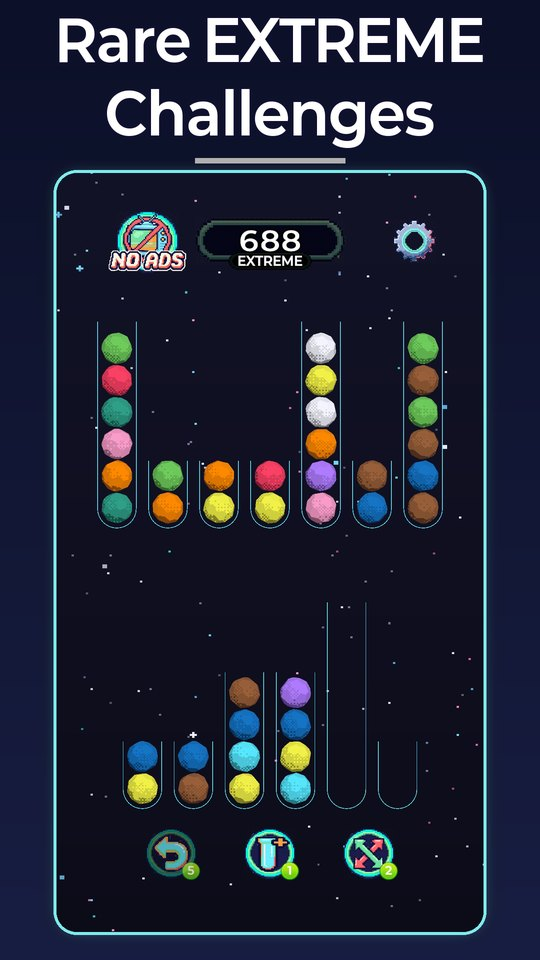
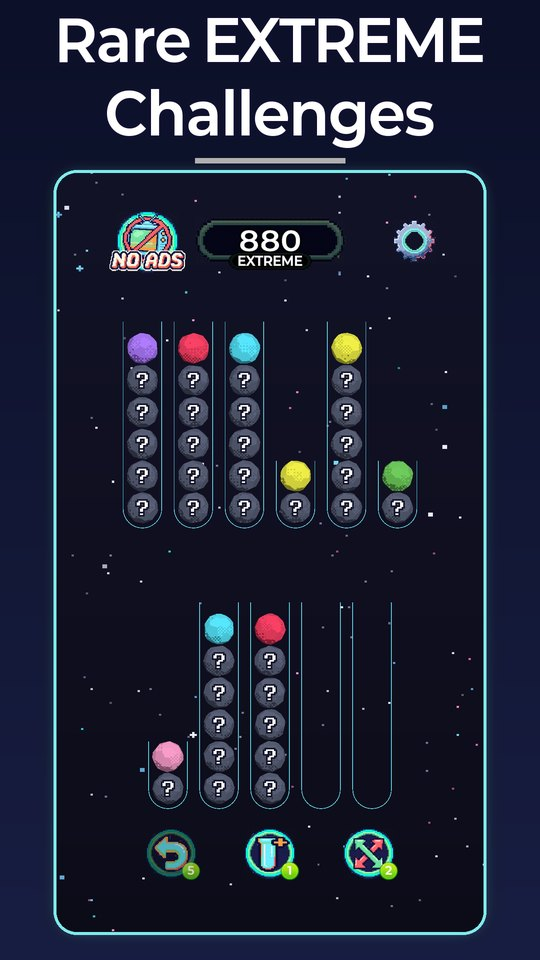
Sortini 1.4 update (2026-11-24)
- Sortini pages (KO/EN): 1.4 meta and og text, softwareVersion 1.4,
  v1.4 release line, 1.4 changelog entry
- Coming next: only the Europe launch line remains
- Features: HARD about every 10 levels
- Screenshot 4: 1.4 EXTREME level 880 (store set, 540x960), alt updated
- Home / Games cards: v1.4; sitemap lastmod 2026-11-24

diff --git a/games/sortini/index.html b/games/sortini/index.html
@@ -4,7 +4,7 @@
   <meta charset="UTF-8" />
   <meta name="viewport" content="width=device-width, initial-scale=1.0" />
   <title>Sortini: 볼 소트 퍼즐 | DoubleUp Studio</title>
-  <meta name="description" content="튜브 크기가 제각각인 볼 소트 퍼즐, Sortini. 1.3 업데이트 — 새로 만든 5~50레벨, 가려진 공, 자동 일시정지. 1,000개 레벨, Google Play에서 무료로 즐기세요." />
+  <meta name="description" content="튜브 크기가 제각각인 볼 소트 퍼즐, Sortini. 1.4 업데이트 — 새로 만든 51~1000레벨, 랭킹 시즌 2. 1,000개 레벨, Google Play에서 무료로 즐기세요." />
   <link rel="canonical" href="https://doubleupstudio.com/games/sortini/" />
   <link rel="alternate" hreflang="ko" href="https://doubleupstudio.com/games/sortini/" />
   <link rel="alternate" hreflang="en" href="https://doubleupstudio.com/games/sortini/en/" />
@@ -13,8 +13,8 @@
   <meta property="og:type" content="website" />
   <meta property="og:site_name" content="DoubleUp Studio" />
   <meta property="og:url" content="https://doubleupstudio.com/games/sortini/" />
-  <meta property="og:title" content="Sortini: 볼 소트 퍼즐 — 1.3 업데이트" />
-  <meta property="og:description" content="튜브 크기가 제각각인 볼 소트 퍼즐. 새 5~50레벨 · 가려진 공 · 자동 일시정지. 1,000개 레벨, 무료." />
+  <meta property="og:title" content="Sortini: 볼 소트 퍼즐 — 1.4 업데이트" />
+  <meta property="og:description" content="튜브 크기가 제각각인 볼 소트 퍼즐. 새 51~1000레벨 · 가려진 공 · 랭킹 시즌 2. 1,000개 레벨, 무료." />
   <meta property="og:image" content="https://doubleupstudio.com/assets/img/games/sortini-og.jpg?v=20261113" />
   <meta property="og:image:width" content="1200" />
   <meta property="og:image:height" content="630" />
@@ -43,7 +43,7 @@
   "applicationCategory": "GameApplication",
   "genre": "Puzzle",
   "operatingSystem": "Android",
-  "softwareVersion": "1.3.1",
+  "softwareVersion": "1.4",
   "datePublished": "2026-10-19",
   "image": "https://doubleupstudio.com/assets/img/games/sortini-og.jpg",
   "url": "https://doubleupstudio.com/games/sortini/",
@@ -118,7 +118,7 @@
             </a>
             <span class="store-soon" aria-label="App Store 출시 준비 중">App Store · 준비 중</span>
           </div>
-          <p class="release-date">v1.3.1 · UPDATED 2026.11.16 · RELEASED 2026.10.19</p>
+          <p class="release-date">v1.4 · UPDATED 2026.11.24 · RELEASED 2026.10.19</p>
         </div>
 
         <div class="game-hero__video">
@@ -161,7 +161,7 @@
         <ul class="feature-list">
           <li><strong>크기가 다른 튜브</strong>2 · 4 · 6 · 8칸 튜브가 한 판에 섞여 나와요.</li>
           <li><strong>1,000개 레벨</strong>쉬운 워밍업부터 머리를 쥐어짜는 판까지 차근차근 어려워져요. 모든 레벨은 아이템 없이도 풀 수 있게 만들었어요.</li>
-          <li><strong>HARD &amp; EXTREME</strong>챕터 끝마다 HARD 레벨, 가끔은 정말 어려운 EXTREME 레벨이 기다리고 있어요.</li>
+          <li><strong>HARD &amp; EXTREME</strong>10레벨 안팎마다 HARD 레벨, 가끔은 정말 어려운 EXTREME 레벨이 기다리고 있어요.</li>
           <li><strong>크라운 챌린지</strong>빠르게 풀수록 더 좋은 크라운을 받아요.</li>
           <li><strong>리더보드</strong>Google Play 게임즈 리더보드에서 다른 플레이어와 기록을 겨뤄 보세요.</li>
           <li><strong>도움 아이템 3종</strong>되돌리기(방금 한 수 취소) · 튜브 추가(빈 튜브 하나 더) · 섞기(공을 다시 섞기).</li>
@@ -182,7 +182,7 @@
           <img src="/assets/img/games/sortini/ko/shot-1.jpg" alt="크기가 다른 튜브 — 2칸부터 큰 튜브까지 섞인 레벨 100" width="540" height="960" loading="lazy" />
           <img src="/assets/img/games/sortini/ko/shot-2.jpg" alt="착착 정리하고 시원하게 클리어 — 공을 옮기는 레벨 549" width="540" height="960" loading="lazy" />
           <img src="/assets/img/games/sortini/ko/shot-3.jpg" alt="레벨 1,000개 — 마지막 레벨 1000(HARD)" width="540" height="960" loading="lazy" />
-          <img src="/assets/img/games/sortini/ko/shot-4.jpg" alt="가끔 나오는 익스트림 도전 — EXTREME 레벨 688" width="540" height="960" loading="lazy" />
+          <img src="/assets/img/games/sortini/ko/shot-4.jpg?v=20261124" alt="가끔 나오는 익스트림 도전 — EXTREME 레벨 880" width="540" height="960" loading="lazy" />
           <img src="/assets/img/games/sortini/ko/shot-5.jpg" alt="막히면 되돌리기 · 튜브 추가 · 섞기 — 섞기 아이템을 쓰는 레벨 115" width="540" height="960" loading="lazy" />
           <img src="/assets/img/games/sortini/ko/shot-6.jpg" alt="빨리 깰수록 골드 크라운 — PERFECT 클리어 화면" width="540" height="960" loading="lazy" />
           <img src="/assets/img/games/sortini/ko/shot-7.jpg" alt="색약을 위한 색 기호 — 공마다 기호가 보이는 레벨 812" width="540" height="960" loading="lazy" />
@@ -203,13 +203,22 @@
               <span class="changelog__ver">다음 업데이트 예정</span>
               <span class="changelog__date">COMING SOON</span>
             </div>
-            <p class="muted" style="margin:0 0 .5rem">1.3에서 새로 만든 초반 레벨의 반응을 보면서 다음 내용을 준비하고 있어요. (내용과 시기는 바뀔 수 있어요.)</p>
+            <p class="muted" style="margin:0 0 .5rem">새 51~1000레벨의 반응을 보면서 다음 내용을 준비하고 있어요. (내용과 시기는 바뀔 수 있어요.)</p>
             <ul>
-              <li><b>51~1000레벨 새 단장</b> — 판마다 다르게 느껴지도록 모든 레벨을 새로 만들어요. 가려진 공이 더 다양해지고, 시작 모양도 여러 가지가 나와요.</li>
-              <li><b>HARD &amp; EXTREME 다듬기</b> — 어려운 판이 일반 판과 확실히 다르게 느껴지도록 다듬어요.</li>
-              <li><b>랭킹 새 시즌</b> — 레벨이 바뀌는 만큼 랭킹을 새로 시작해요. 지금까지의 기록은 <b>「시즌 1」</b>로 보관되고, 랭킹 화면에서 시즌 1 최고 기록도 볼 수 있어요.</li>
-              <li><b>모든 레벨 클리어 그다음</b> — 1000레벨을 다 깬 뒤에는 골드를 못 딴 레벨에 바로 도전할 수 있게 이어 드려요.</li>
               <li><b>유럽 지역 출시</b> — 유럽(EU) · 영국 · 스위스에서도 만날 수 있도록 준비하고 있어요.</li>
+            </ul>
+          </li>
+          <li>
+            <div class="changelog__head">
+              <span class="changelog__ver">1.4 업데이트</span>
+              <span class="changelog__date">2026.11.24</span>
+            </div>
+            <ul>
+              <li><b>51~1000레벨 새 퍼즐</b> — 51~1000레벨을 전부 새 퍼즐로 다시 만들었어요. 가려진 공이 51레벨 이후에도 나와요.</li>
+              <li><b>랭킹 시즌 2</b> — 랭킹이 새로 시작해요. 50레벨을 넘었던 분은 새 퍼즐의 51레벨부터 이어 가요. 1~50레벨 기록은 그대로이고, 시즌 1 기록은 랭킹 탭에 보관돼요.</li>
+              <li><b>올 클리어 화면</b> — 「골드 도전」을 누르면 아직 골드를 못 딴 레벨로 바로 가요. 「다시 하기」는 「처음부터」로 이름이 바뀌었어요.</li>
+              <li><b>크라운 목표 시간</b> — 가려진 공이 있는 레벨은 크라운 목표 시간이 늘었어요.</li>
+              <li><b>수정</b> — 아주 빠르게 연달아 누르면 터치가 먹히지 않던 문제를 고쳤어요.</li>
             </ul>
           </li>
           <li>

diff --git a/games/sortini/en/index.html b/games/sortini/en/index.html
@@ -4,7 +4,7 @@
   <meta charset="UTF-8" />
   <meta name="viewport" content="width=device-width, initial-scale=1.0" />
   <title>Sortini: Ball Sort Puzzle | DoubleUp Studio</title>
-  <meta name="description" content="Sortini, the ball sort puzzle where the tubes come in different sizes. 1.3 update: redesigned levels 5–50, Hidden Balls and auto pause. 1,000 levels, free on Google Play." />
+  <meta name="description" content="Sortini, the ball sort puzzle where the tubes come in different sizes. 1.4 update: all-new levels 51–1000 and ranking Season 2. 1,000 levels, free on Google Play." />
   <link rel="canonical" href="https://doubleupstudio.com/games/sortini/en/" />
   <link rel="alternate" hreflang="ko" href="https://doubleupstudio.com/games/sortini/" />
   <link rel="alternate" hreflang="en" href="https://doubleupstudio.com/games/sortini/en/" />
@@ -13,8 +13,8 @@
   <meta property="og:type" content="website" />
   <meta property="og:site_name" content="DoubleUp Studio" />
   <meta property="og:url" content="https://doubleupstudio.com/games/sortini/en/" />
-  <meta property="og:title" content="Sortini: Ball Sort Puzzle — 1.3 update" />
-  <meta property="og:description" content="The ball sort puzzle where the tubes come in different sizes. Redesigned levels 5–50 · Hidden Balls · auto pause. 1,000 levels, free." />
+  <meta property="og:title" content="Sortini: Ball Sort Puzzle — 1.4 update" />
+  <meta property="og:description" content="The ball sort puzzle where the tubes come in different sizes. All-new levels 51–1000 · Hidden Balls · ranking Season 2. 1,000 levels, free." />
   <meta property="og:image" content="https://doubleupstudio.com/assets/img/games/sortini-og.jpg?v=20261113" />
   <meta property="og:image:width" content="1200" />
   <meta property="og:image:height" content="630" />
@@ -43,7 +43,7 @@
   "applicationCategory": "GameApplication",
   "genre": "Puzzle",
   "operatingSystem": "Android",
-  "softwareVersion": "1.3.1",
+  "softwareVersion": "1.4",
   "datePublished": "2026-10-19",
   "image": "https://doubleupstudio.com/assets/img/games/sortini-og.jpg",
   "url": "https://doubleupstudio.com/games/sortini/en/",
@@ -109,7 +109,7 @@
             </a>
             <span class="store-soon" aria-label="App Store version coming soon">App Store · Coming soon</span>
           </div>
-          <p class="release-date">v1.3.1 · UPDATED 2026.11.16 · RELEASED 2026.10.19</p>
+          <p class="release-date">v1.4 · UPDATED 2026.11.24 · RELEASED 2026.10.19</p>
         </div>
 
         <div class="game-hero__video">
@@ -153,7 +153,7 @@
         <ul class="feature-list">
           <li><strong>Mixed-size tubes</strong>2, 4, 6 and 8-ball tubes in the same puzzle.</li>
           <li><strong>1,000 levels</strong>From relaxing warm-ups to real brain-teasers. Every level can be solved without items.</li>
-          <li><strong>HARD &amp; EXTREME</strong>A HARD level at the end of each chapter, and rare EXTREME challenges.</li>
+          <li><strong>HARD &amp; EXTREME</strong>A HARD level about every 10 levels, and rare EXTREME challenges.</li>
           <li><strong>Crown challenge</strong>Solve faster to earn a better crown.</li>
           <li><strong>Leaderboard</strong>Compete with other players on the Google Play Games leaderboard.</li>
           <li><strong>3 helper items</strong>Undo (take back a move) · Extra Tube (one more empty tube) · Shuffle (mix the balls again).</li>
@@ -174,7 +174,7 @@
           <img src="/assets/img/games/sortini/en/shot-1.jpg" alt="Tubes of every size — level 100 with mixed tube sizes" width="540" height="960" loading="lazy" />
           <img src="/assets/img/games/sortini/en/shot-2.jpg" alt="Sort. Clear. Relax. — moving balls in level 549" width="540" height="960" loading="lazy" />
           <img src="/assets/img/games/sortini/en/shot-3.jpg" alt="1,000 levels — the final level 1000 (HARD)" width="540" height="960" loading="lazy" />
-          <img src="/assets/img/games/sortini/en/shot-4.jpg" alt="Rare EXTREME challenges — EXTREME level 688" width="540" height="960" loading="lazy" />
+          <img src="/assets/img/games/sortini/en/shot-4.jpg?v=20261124" alt="Rare EXTREME challenges — EXTREME level 880" width="540" height="960" loading="lazy" />
           <img src="/assets/img/games/sortini/en/shot-5.jpg" alt="Stuck? Undo, Extra Tube, Shuffle — using Shuffle in level 115" width="540" height="960" loading="lazy" />
           <img src="/assets/img/games/sortini/en/shot-6.jpg" alt="Beat the clock for gold crowns — PERFECT clear screen" width="540" height="960" loading="lazy" />
           <img src="/assets/img/games/sortini/en/shot-7.jpg" alt="Color-blind friendly — color symbols on every ball in level 812" width="540" height="960" loading="lazy" />
@@ -195,13 +195,22 @@
               <span class="changelog__ver">Coming next</span>
               <span class="changelog__date">COMING SOON</span>
             </div>
-            <p class="muted" style="margin:0 0 .5rem">We're watching how players enjoy the new early levels in 1.3 and preparing the following. (Details and timing may change.)</p>
+            <p class="muted" style="margin:0 0 .5rem">We're watching how players enjoy the all-new levels 51–1000 and preparing the following. (Details and timing may change.)</p>
             <ul>
-              <li><b>All-new levels 51–1000</b> — Every level rebuilt so each one feels different, with more kinds of Hidden Balls and new starting layouts.</li>
-              <li><b>Polishing HARD &amp; EXTREME</b> — Making the tough levels feel clearly different from regular ones.</li>
-              <li><b>A new ranking season</b> — With new levels, the ranking starts over. Your records so far are kept as <b>"Season 1"</b>, and you can still see your Season 1 best on the ranking screen.</li>
-              <li><b>After clearing every level</b> — Once you finish all 1,000 levels, we'll guide you straight to the levels you haven't golded yet.</li>
               <li><b>Launch in Europe</b> — Getting ready to bring Sortini to the EU, the UK and Switzerland.</li>
+            </ul>
+          </li>
+          <li>
+            <div class="changelog__head">
+              <span class="changelog__ver">1.4 Update</span>
+              <span class="changelog__date">2026.11.24</span>
+            </div>
+            <ul>
+              <li><b>All-new levels 51–1000</b> — Levels 51–1000 are all-new puzzles. Hidden Balls now appear after Level 50 too.</li>
+              <li><b>Ranking Season 2</b> — Rankings start fresh. If you were past Level 50, you continue from Level 51 on the new puzzles. Your Level 1–50 records stay, and your Season 1 best is saved in the RANKING tab.</li>
+              <li><b>ALL CLEAR screen</b> — GO FOR GOLD takes you straight to the levels you haven't golded yet. REPLAY is now START OVER.</li>
+              <li><b>Crown time goals</b> — Crown time goals are longer on Hidden Ball levels.</li>
+              <li><b>Fix</b> — Taps could stop working after very fast tapping.</li>
             </ul>
           </li>
           <li>

diff --git a/games/index.html b/games/index.html
@@ -94,7 +94,7 @@
               <li><b>플랫폼</b><span>Android (iOS 준비 중)</span></li>
               <li><b>엔진</b><span>Unity</span></li>
               <li><b>가격</b><span>무료</span></li>
-              <li><b>버전</b><span>v1.3.1 — 1,000개 레벨</span></li>
+              <li><b>버전</b><span>v1.4 — 1,000개 레벨</span></li>
               <li><b>출시</b><span>2026.10.19 Google Play</span></li>
             </ul>
           </a>

diff --git a/index.html b/index.html
@@ -199,7 +199,7 @@
             <ul class="game-card__meta">
               <li><b>플랫폼</b><span>Android (iOS 준비 중)</span></li>
               <li><b>엔진</b><span>Unity</span></li>
-              <li><b>버전</b><span>v1.3.1 — 1,000개 레벨</span></li>
+              <li><b>버전</b><span>v1.4 — 1,000개 레벨</span></li>
               <li><b>출시</b><span>2026.10.19 Google Play</span></li>
             </ul>
           </a>
